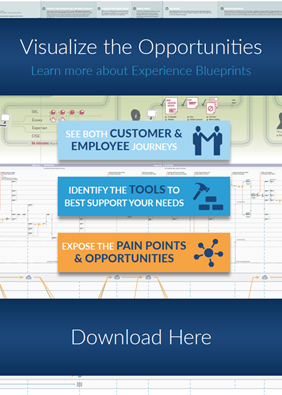
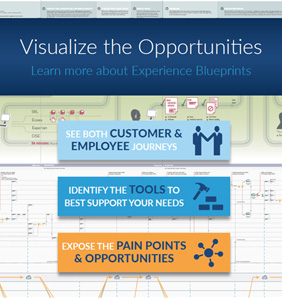
29Jun2017-7

diff --git a/services/strategy.html b/services/strategy.html
@@ -146,7 +146,8 @@
           </div>
         </div>
       </div>
-      <div class="col-sm-3 hidden-xs"><a href="../pdf/BlueprintDigital.pdf" target="_blank"> <img src="../img/blueprint.jpg" class="img-responsive" style="margin-top: 0px;"> </a></div>
+      <div class="col-sm-3 hidden-xs"> <img src="../img/blueprint.jpg" class="img-responsive" style="margin-top: 0px;"> <a href="../pdf/BlueprintDigital.pdf" target="_blank"> <br/>
+      <img src="../img/blueprint-button.jpg" class="img-responsive" style="margin-top: 0px;"> </a></div>
     </div>
   </div>
 </div>
